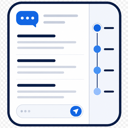
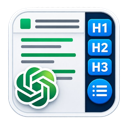
Release AutoToC 1.0.3

diff --git a/CHANGELOG.md b/CHANGELOG.md
@@ -2,6 +2,10 @@
 
 All notable changes to AutoToC will be documented in this file.
 
+## [1.0.3] - 2026-06-26
+
+- Replace the extension icon set with transparent-background AutoToC artwork at 16, 32, 38, and 128 pixels.
+
 ## [1.0.2] - 2026-06-24
 
 - Add 16, 32, 48, and 128 pixel extension icons generated from the supplied source image.